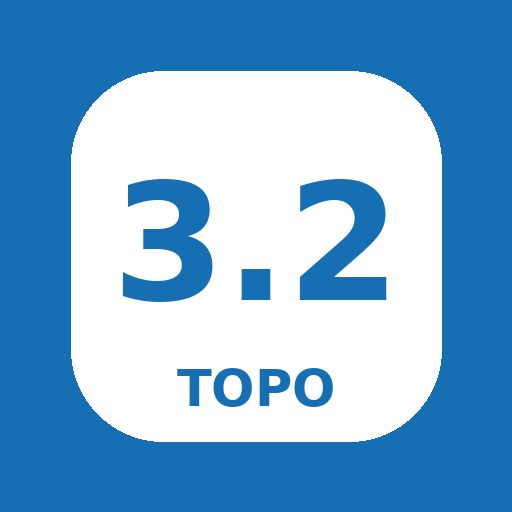
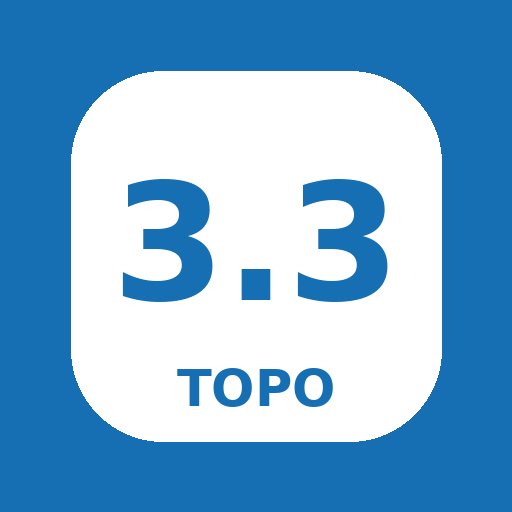
Add files via upload
Helpfile verbeterd

diff --git a/index.html b/index.html
@@ -4,7 +4,7 @@
 <head>
 <meta charset="utf-8"/>
 <meta content="width=device-width, initial-scale=1, viewport-fit=cover" name="viewport"/>
-<title>Topo Trainer Friesland 3.2</title>
+<title>Topo Trainer Friesland 3.3</title>
 <style>
 :root {
   --bg:#f3f7f8; --panel:#fff; --text:#1d2632; --muted:#6b7280;
@@ -508,7 +508,7 @@ header {
 <header>
 <h1>Topo Trainer – Friesland</h1>
 <div class="subtitle">Plaatsen, wateren, eilanden en streken leren en overhoren op een kale kaart.</div>
-<div class="versionNumber">Versie 3.2</div>
+<div class="versionNumber">Versie 3.3</div>
 <label aria-label="Help openen" class="helpButton" for="helpToggle" id="helpButton">?</label></header>
 <section class="card controls">
 <div class="toggles">
@@ -831,24 +831,35 @@ header {
 </div>
 <div class="helpSection">
 <h3>Leerstand</h3>
-<p><strong>Namen op kaart</strong> toont of verbergt alle topografienamen. Tik je op een gekleurde stip of een vlak, dan wordt die naam ook afzonderlijk zichtbaar.</p>
-<p>Vink onder <strong>Geleerde topografie</strong> aan wat Lewis al kent. Als de namen op de kaart zichtbaar zijn, worden geleerde onderdelen niet meer ingekleurd. Zo zie je snel wat nog geleerd moet worden.</p>
+<p><strong>Namen op kaart:</strong> Toont of verbergt alle topografienamen. Tik je op een gekleurde stip of een vlak, dan wordt die naam ook afzonderlijk zichtbaar.</p>
+<p><strong>Geleerde topografie:</strong> Vink aan wat Lewis al kent. Als de namen op de kaart zichtbaar zijn, worden geleerde onderdelen niet meer ingekleurd. Zo zie je snel wat nog geleerd moet worden.</p>
 </div>
 <div class="helpSection">
 <h3>Overhoren</h3>
-<p><strong>Overhoortype:</strong> bij <strong>Aanwijzen</strong> krijg je een naam en wijs je de juiste plek aan. Bij <strong>Schrijven</strong> wordt een plek gemarkeerd en verschijnt een klein antwoordvak direct bij die plek. <strong>Mix</strong> wisselt beide vraagsoorten door elkaar.</p><p>In Overhoren zijn de namen altijd verborgen. Bij <strong>Alleen uit geleerde lijst</strong> worden alleen de aangevinkte onderdelen gevraagd. Staat die schakelaar uit, dan kan alle topografie worden gevraagd.</p>
-<p>Een onderdeel komt normaal maar één keer per ronde langs. Kies je fout, dan blijft dezelfde vraag staan tot het goede antwoord is gekozen en komt dat onderdeel later in dezelfde ronde nog eens terug.</p>
-<p>Na <strong>3 foute antwoorden</strong> verschijnt extra hulp: bij Aanwijzen wordt de juiste naam zichtbaar en bij Schrijven verschijnt de naam bij de gemarkeerde plek.</p>
-<p>In <strong>Schrijven</strong> probeert de app toetsenbordhulp zoals autocorrectie, spellingcontrole en schrijfsuggesties uit te schakelen, zodat het antwoord echt uit het geheugen komt.</p></div>
+<p><strong>Aanwijzen:</strong> Je krijgt een naam te zien en wijst de juiste plek op de kaart aan.</p>
+<p><strong>Schrijven:</strong> Een plek wordt gemarkeerd en er verschijnt een klein antwoordvak direct bij die plek. Typ de naam en druk op OK of Enter.</p>
+<p><strong>Mix:</strong> Wisselt Aanwijzen en Schrijven door elkaar.</p>
+<p><strong>Alleen uit geleerde lijst:</strong> Als deze aanstaat, worden alleen de aangevinkte onderdelen uit Geleerde topografie gevraagd. Staat hij uit, dan kan alle topografie worden gevraagd.</p>
+<p><strong>Fout antwoord:</strong> Dezelfde vraag blijft staan tot het goede antwoord is gegeven. Daarna komt die topo later in dezelfde ronde opnieuw terug, in dezelfde vraagvorm.</p>
+<p><strong>3 keer fout:</strong> Er verschijnt extra hulp. Bij Aanwijzen wordt de juiste naam zichtbaar en bij Schrijven verschijnt de naam bij de gemarkeerde plek.</p>
+<p><strong>Toetsenbordhulp:</strong> In Schrijven probeert de app autocomplete, autocorrectie, spellingcontrole en schrijfsuggesties uit te schakelen, zodat het antwoord echt uit het geheugen komt.</p>
+</div>
 <div class="helpSection">
 <h3>Ronde en score</h3>
-<p>Bij 10 of meer gekozen onderdelen verschijnt na een volledige ronde een melding als alles is beantwoord, inclusief de fout-herhalingen. Bij minder dan 10 onderdelen wordt eerst doorgevraagd tot minimaal 10 vragen zijn afgerond.</p>
-<p><strong>Doorgaan</strong> gaat daarna verder met nieuwe rondes. <strong>Stoppen</strong> toont direct het eindcijfer. Met <strong>Einde</strong> kun je op ieder moment stoppen en het resultaat bekijken.</p>
-<p><strong>Nieuwe vraag</strong> slaat de huidige topo niet definitief over; die kan later terugkomen.</p>
+<p><strong>10 of meer topo's:</strong> Na één volledige ronde verschijnt een melding als alles is beantwoord, inclusief topo's die na een fout opnieuw moesten worden gevraagd.</p>
+<p><strong>Minder dan 10 topo's:</strong> Er wordt doorgevraagd tot minimaal 10 vragen zijn afgerond. Openstaande fout-herhalingen worden daarna eerst nog afgewerkt.</p>
+<p><strong>Doorgaan:</strong> Start nieuwe rondes en gaat door tot je zelf op Einde drukt.</p>
+<p><strong>Stoppen:</strong> Toont direct het eindcijfer.</p>
+<p><strong>Einde:</strong> Stopt de overhoring op ieder gewenst moment en toont het eindresultaat.</p>
+<p><strong>Nieuwe vraag:</strong> Slaat de huidige topo niet definitief over; die kan later terugkomen.</p>
 </div>
 <div class="helpSection">
 <h3>Legenda</h3>
-<p>Bruin = plaatsen, blauw = wateren, geel = streken en paars = eilanden. De vier vakjes bovenaan zijn alleen een legenda en geen filters.</p>
+<p><strong>Bruin:</strong> Plaatsen.</p>
+<p><strong>Blauw:</strong> Wateren.</p>
+<p><strong>Geel:</strong> Streken.</p>
+<p><strong>Paars:</strong> Eilanden.</p>
+<p><strong>Let op:</strong> De vier vakjes bovenaan zijn alleen een legenda en geen filters.</p>
 </div>
 <label class="helpCloseButton" for="helpToggle" id="closeHelp">Sluiten</label>
 </div>

diff --git a/service-worker.js b/service-worker.js
@@ -1,4 +1,4 @@
-const CACHE_NAME = "topo-trainer-friesland-3-2";
+const CACHE_NAME = "topo-trainer-friesland-3-3";
 const ASSETS = [
   "./",
   "./index.html",
